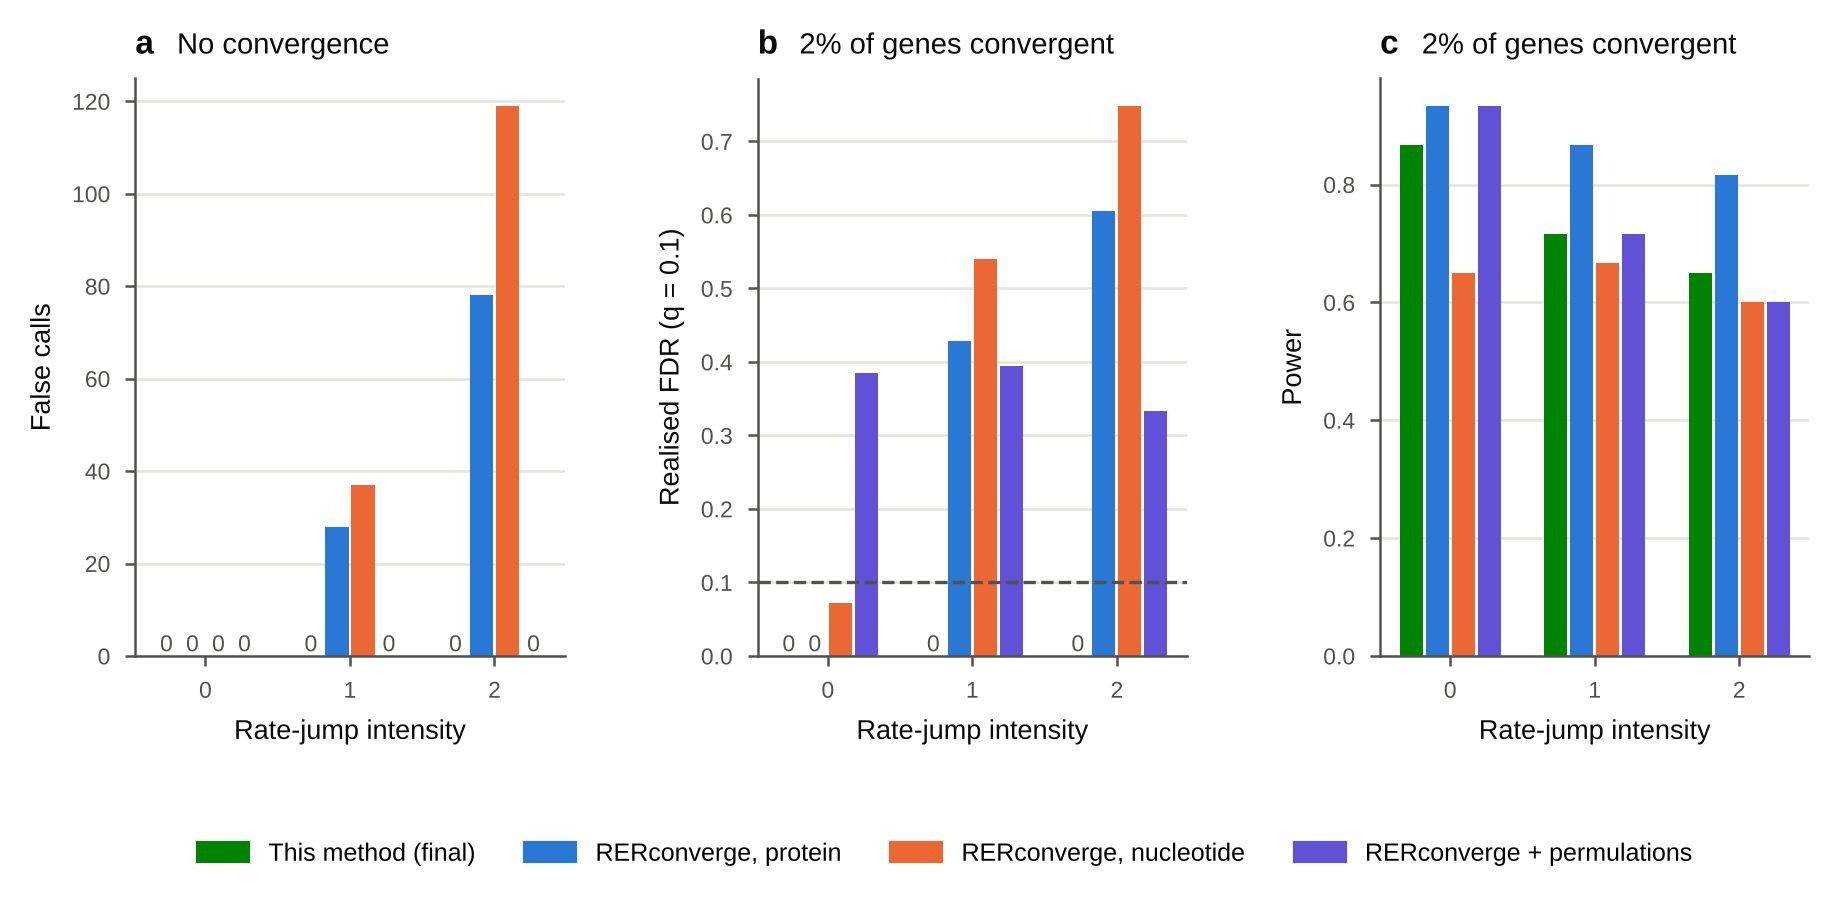
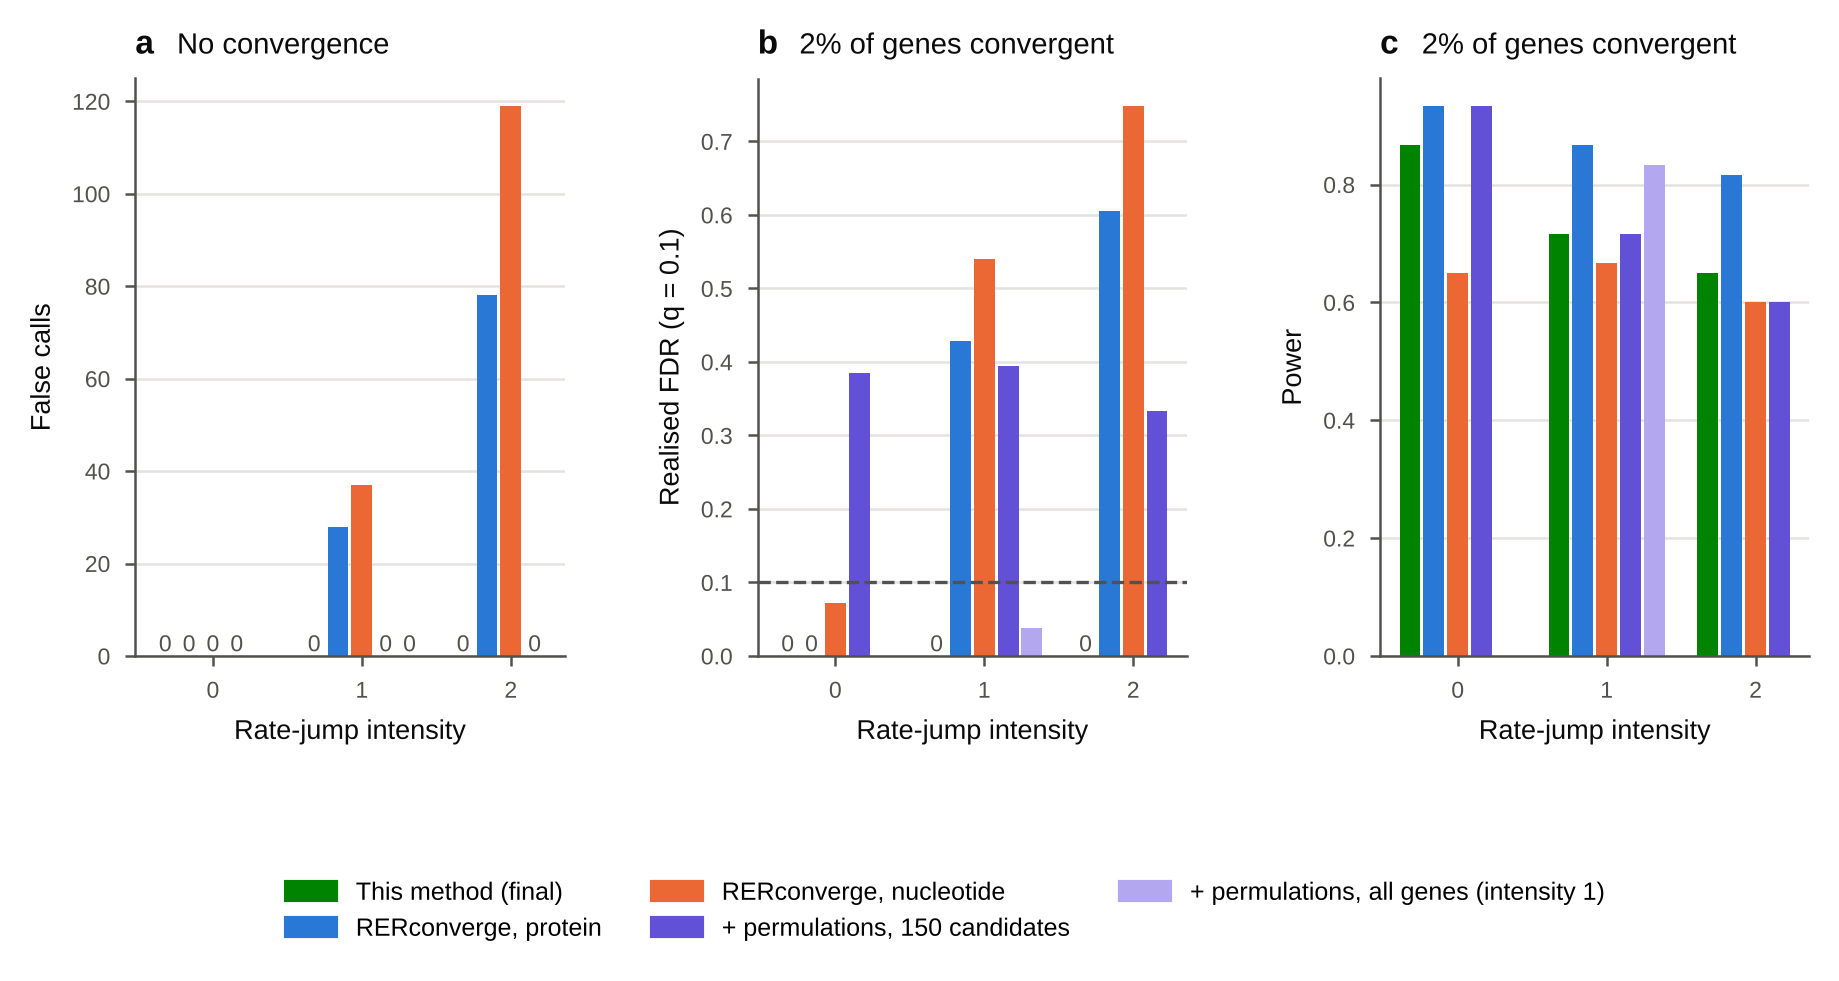
RERconverge with permulations on all genes (100 and 10,000); redraw Extended Data Fig. 2
Claude-Session: https://claude.ai/code/session_019utTifuXP1XtTYCS5CjKaD

diff --git a/scripts/make_figures.py b/scripts/make_figures.py
@@ -814,13 +814,18 @@ def supp2():
 
 def supp1():
     r = pd.read_csv(RES / "rerconverge_compare.csv")
+    # 10,000 permulations on all genes, rate-jump intensity 1 only (results/robustness)
+    allp = pd.read_csv(RES / "robustness" / "rerconverge_allperm10k.csv")
+    allp = allp[allp.method == "RERconverge_protein_permulation"].assign(method="RERconverge_allperm")
+    r = pd.concat([r, allp], ignore_index=True)
     meth = [("final", "This method (final)", C6), ("RERconverge_protein", "RERconverge, protein", C1),
             ("RERconverge_nucleotide", "RERconverge, nucleotide", C2),
-            ("RERconverge_protein_permulation", "RERconverge + permulations", "#6250d6")]   # violet, slot 7
+            ("RERconverge_protein_permulation", "+ permulations, 150 candidates", "#6250d6"),   # violet, slot 7
+            ("RERconverge_allperm", "+ permulations, all genes (intensity 1)", "#b3a8ef")]
     conf = sorted(r.confounding.unique())
     fig, axes = plt.subplots(1, 3, figsize=(7.2, 2.5), gridspec_kw=dict(wspace=0.45))
     x = np.arange(len(conf))
-    w = 0.18
+    w = 0.16
     for ax, (eff, col, ylab, letter, title) in zip(axes, (
             ("none", "false_calls", "False calls", "a", "No convergence"),
             ("moderate", "fdr", "Realised FDR (q = 0.1)", "b", "2% of genes convergent"),
@@ -828,8 +833,8 @@ def supp1():
         s = r[r.effect == eff].groupby(["confounding", "method"])[col].mean()
         for i, (m, lab, c) in enumerate(meth):
             v = [s.get((cf, m), np.nan) for cf in conf]
-            ax.bar(x + (i - 1.5) * w, v, width=w - 0.02, color=c, label=lab)
-            for xx, vv in zip(x + (i - 1.5) * w, v):
+            ax.bar(x + (i - 2) * w, v, width=w - 0.02, color=c, label=lab)
+            for xx, vv in zip(x + (i - 2) * w, v):
                 if vv == 0:
                     ax.text(xx, 0, "0", ha="center", va="bottom", fontsize=5.5, color=INK2)
         if col == "fdr":
@@ -840,7 +845,7 @@ def supp1():
         grid(ax)
         panel(ax, letter, title)
     fig.legend(handles=[Rectangle((0, 0), 1, 1, color=c, label=lab) for _, lab, c in meth],
-               loc="lower center", ncol=4, bbox_to_anchor=(0.5, -0.2))
+               loc="lower center", ncol=3, bbox_to_anchor=(0.5, -0.3))
     save(fig, "ExtendedDataFigure2")
 
 
